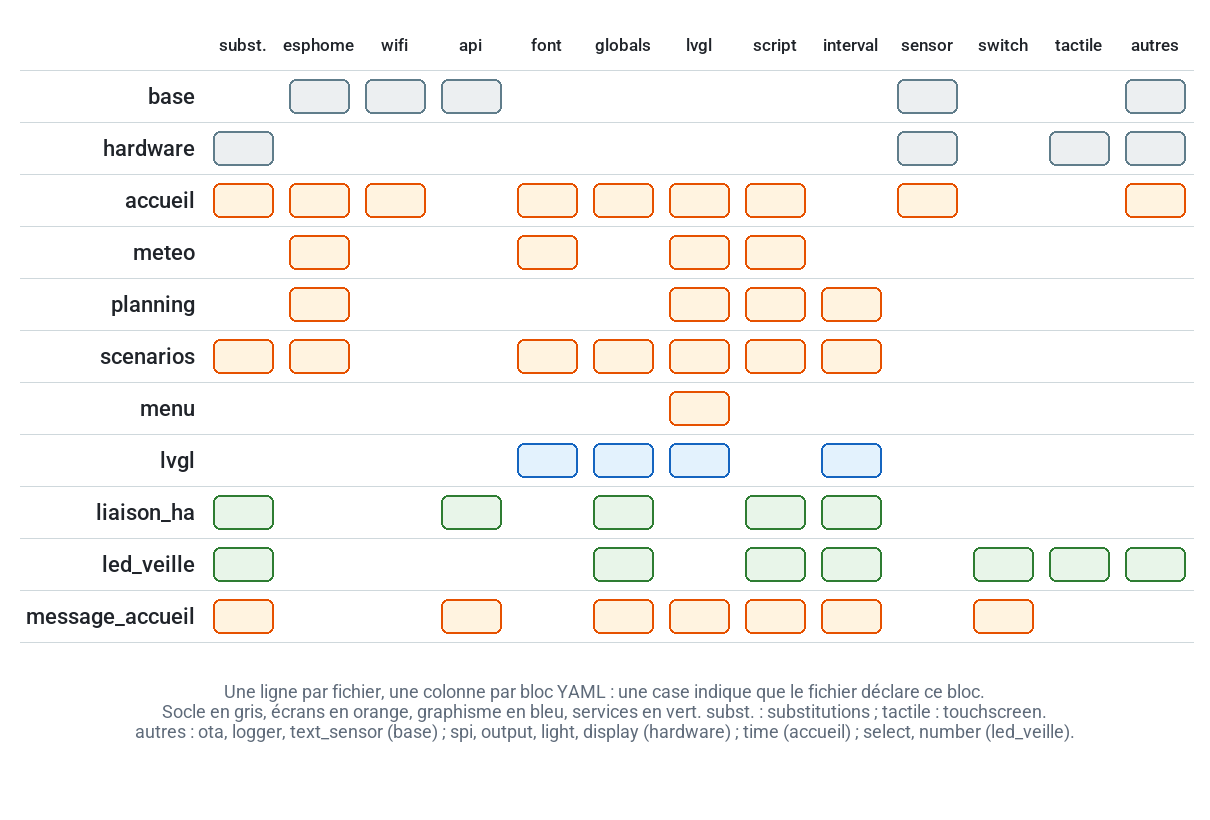
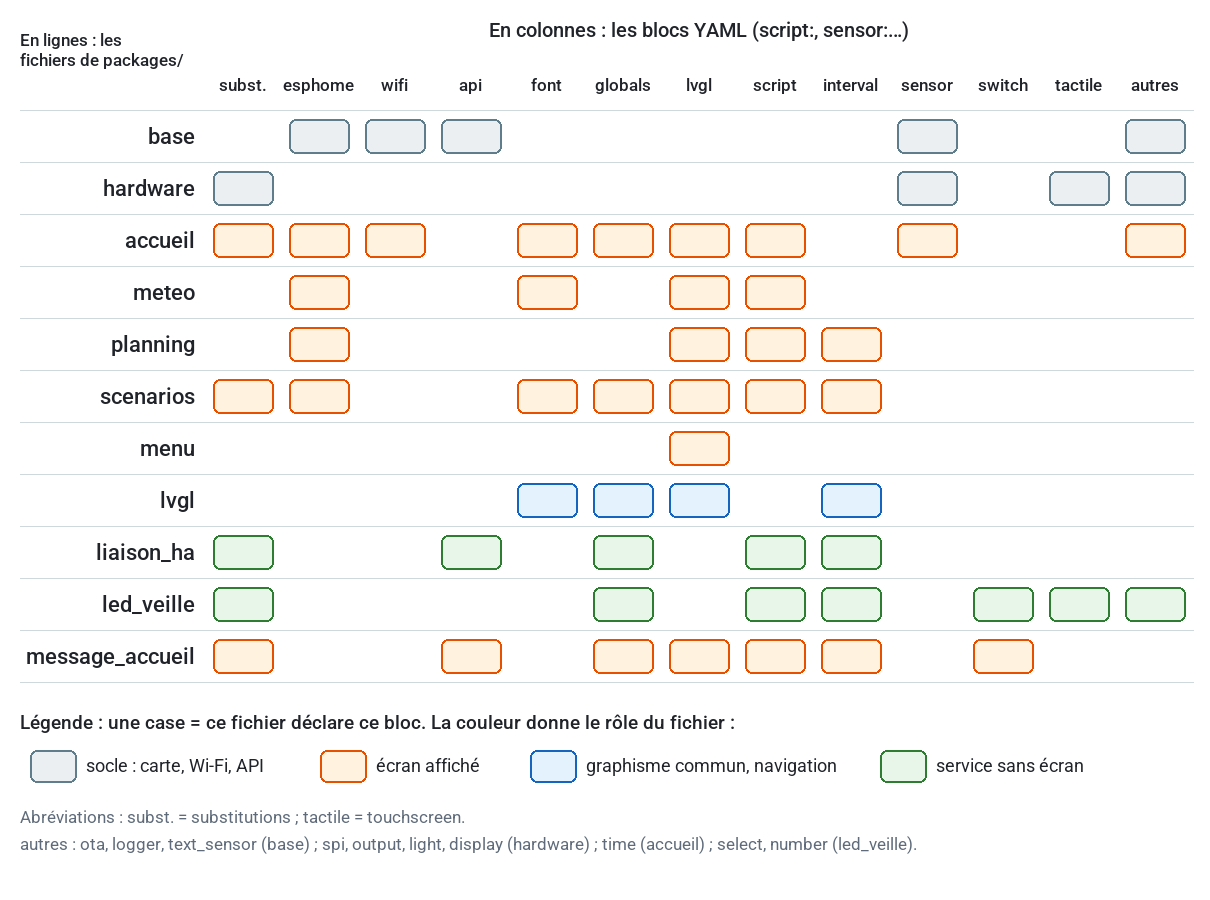
Architecture : legende explicite de la matrice des blocs YAML
Axes nommes, pastilles de couleur avec leur role, abreviations.

diff --git a/tools/generer_schemas_architecture.py b/tools/generer_schemas_architecture.py
@@ -405,10 +405,13 @@ def yaml_matrice():
               ("liaison_ha", "subst. api globals script interval", VERT, B_VERT),
               ("led_veille", "subst. globals script interval switch tactile autres", VERT, B_VERT),
               ("message_accueil", "subst. api globals lvgl script interval switch", ORANGE, B_ORANGE)]
-    s = S(1210, 820)
-    x0, y0, lc, hl = 205, 70, 76, 52
+    s = S(1210, 900)
+    x0, y0, lc, hl = 205, 110, 76, 52
+    # Axes : fichiers en lignes, blocs YAML en colonnes.
+    s.d.text((x0 + len(colonnes) * lc / 2, 30), "En colonnes : les blocs YAML (script:, sensor:…)", fill=ENCRE, font=f(20, True), anchor="mm")
+    s.d.text((20, 30), "En lignes : les\nfichiers de packages/", fill=ENCRE, font=f(17, True), anchor="la")
     for i, c in enumerate(colonnes):
-        s.d.text((x0 + i * lc + lc / 2, 45), c, fill=ENCRE, font=f(17, True), anchor="mm")
+        s.d.text((x0 + i * lc + lc / 2, 85), c, fill=ENCRE, font=f(17, True), anchor="mm")
     for j, (nom, blocs, fond, bord) in enumerate(lignes):
         y = y0 + j * hl
         s.d.line([(20, y), (x0 + len(colonnes) * lc, y)], fill="#CFD8DC", width=1)
@@ -419,7 +422,15 @@ def yaml_matrice():
                 s.d.rounded_rectangle([cx + 8, y + 9, cx + lc - 8, y + hl - 9], 7, fill=fond, outline=bord, width=2)
     yf = y0 + len(lignes) * hl
     s.d.line([(20, yf), (x0 + len(colonnes) * lc, yf)], fill="#CFD8DC", width=1)
-    s.etiquette((605, yf + 70), "Une ligne par fichier, une colonne par bloc YAML : une case indique que le fichier déclare ce bloc.\nSocle en gris, écrans en orange, graphisme en bleu, services en vert. subst. : substitutions ; tactile : touchscreen.\nautres : ota, logger, text_sensor (base) ; spi, output, light, display (hardware) ; time (accueil) ; select, number (led_veille).", DOUX)
+    # Legende : une case = le fichier declare ce bloc ; couleur = role du fichier.
+    s.d.text((20, yf + 40), "Légende : une case = ce fichier déclare ce bloc. La couleur donne le rôle du fichier :", fill=ENCRE, font=f(19, True), anchor="lm")
+    roles = [(GRIS, "#607D8B", "socle : carte, Wi-Fi, API"), (ORANGE, B_ORANGE, "écran affiché"),
+             (BLEU, B_BLEU, "graphisme commun, navigation"), (VERT, B_VERT, "service sans écran")]
+    for cx, (fond, bord, texte) in zip([30, 320, 530, 880], roles):
+        s.d.rounded_rectangle([cx, yf + 68, cx + 46, yf + 100], 7, fill=fond, outline=bord, width=2)
+        s.d.text((cx + 56, yf + 84), texte, fill=ENCRE, font=f(18), anchor="lm")
+    s.d.text((20, yf + 135), "Abréviations : subst. = substitutions ; tactile = touchscreen.", fill=DOUX, font=f(17), anchor="lm")
+    s.d.text((20, yf + 162), "autres : ota, logger, text_sensor (base) ; spi, output, light, display (hardware) ; time (accueil) ; select, number (led_veille).", fill=DOUX, font=f(17), anchor="lm")
     s.sauver("20_yaml_matrice.png")
 
 
